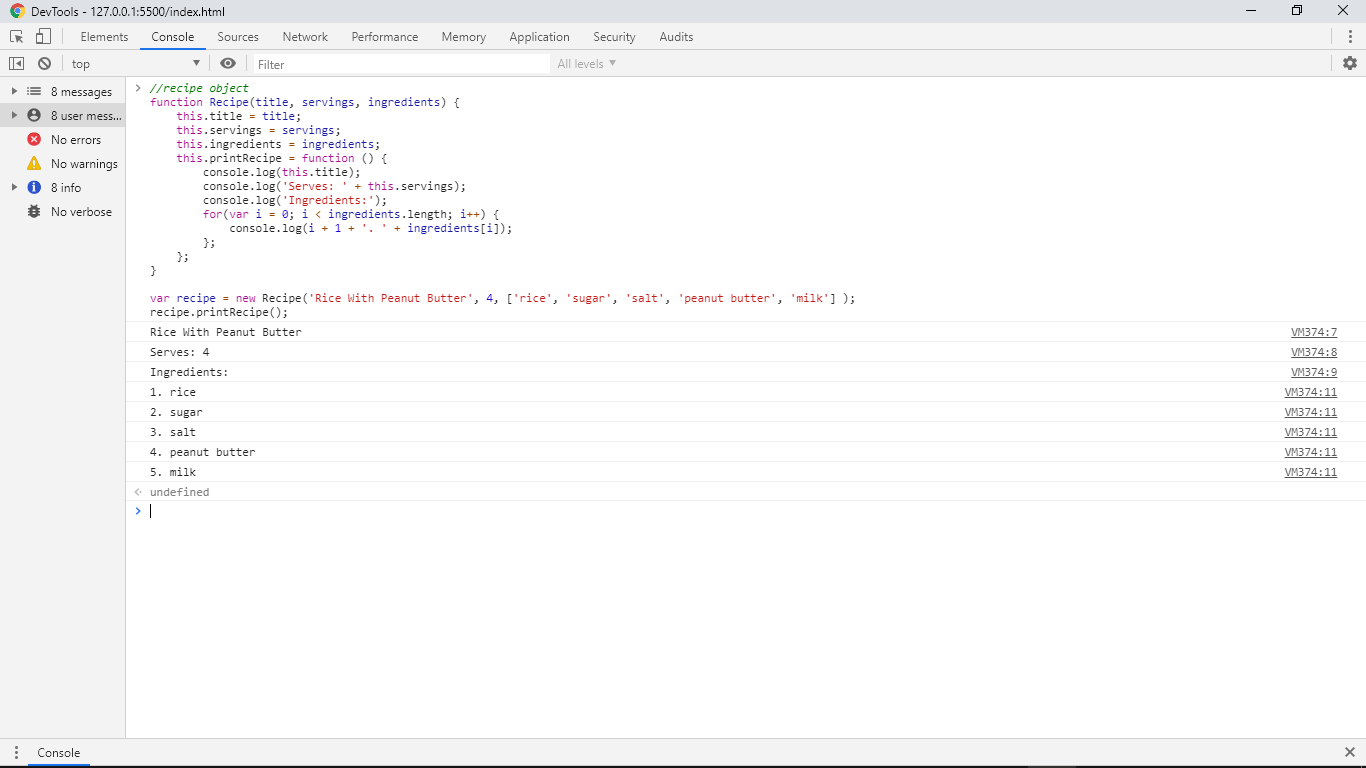
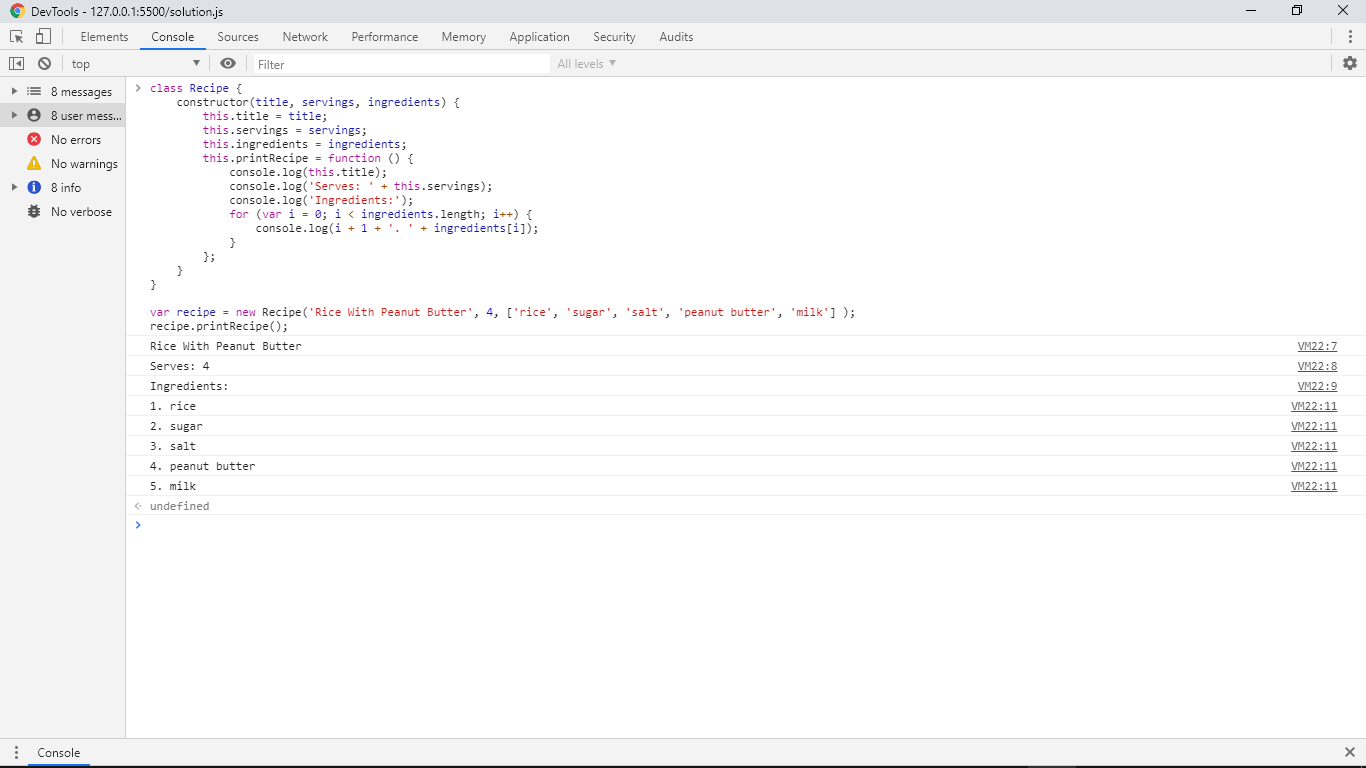
modify recipe code

diff --git a/solution.js b/solution.js
@@ -1,17 +1,25 @@
-//recipe object 
-function Recipe(title, servings, ingredients) {
-    this.title = title;
-    this.servings = servings;
-    this.ingredients = ingredients;
-    this.printRecipe = function () {
-        console.log(this.title);
-        console.log('Serves: ' + this.servings);
-        console.log('Ingredients:');
-        for(var i = 0; i < ingredients.length; i++) {
-            console.log(i + 1 + '. ' + ingredients[i]);
+//1. recipe object 
+class Recipe {
+    constructor(title, servings, ingredients) {
+        this.title = title;
+        this.servings = servings;
+        this.ingredients = ingredients;
+        this.printRecipe = function () {
+            console.log(this.title);
+            console.log('Serves: ' + this.servings);
+            console.log('Ingredients:');
+            for (var i = 0; i < ingredients.length; i++) {
+                console.log(i + 1 + '. ' + ingredients[i]);
+            }
         };
-    };
+    }
 }
 
 var recipe = new Recipe('Rice With Peanut Butter', 4, ['rice', 'sugar', 'salt', 'peanut butter', 'milk'] );
 recipe.printRecipe();
+
+//------------------------------------------
+//2. book object
+function name(params) {
+    
+}
